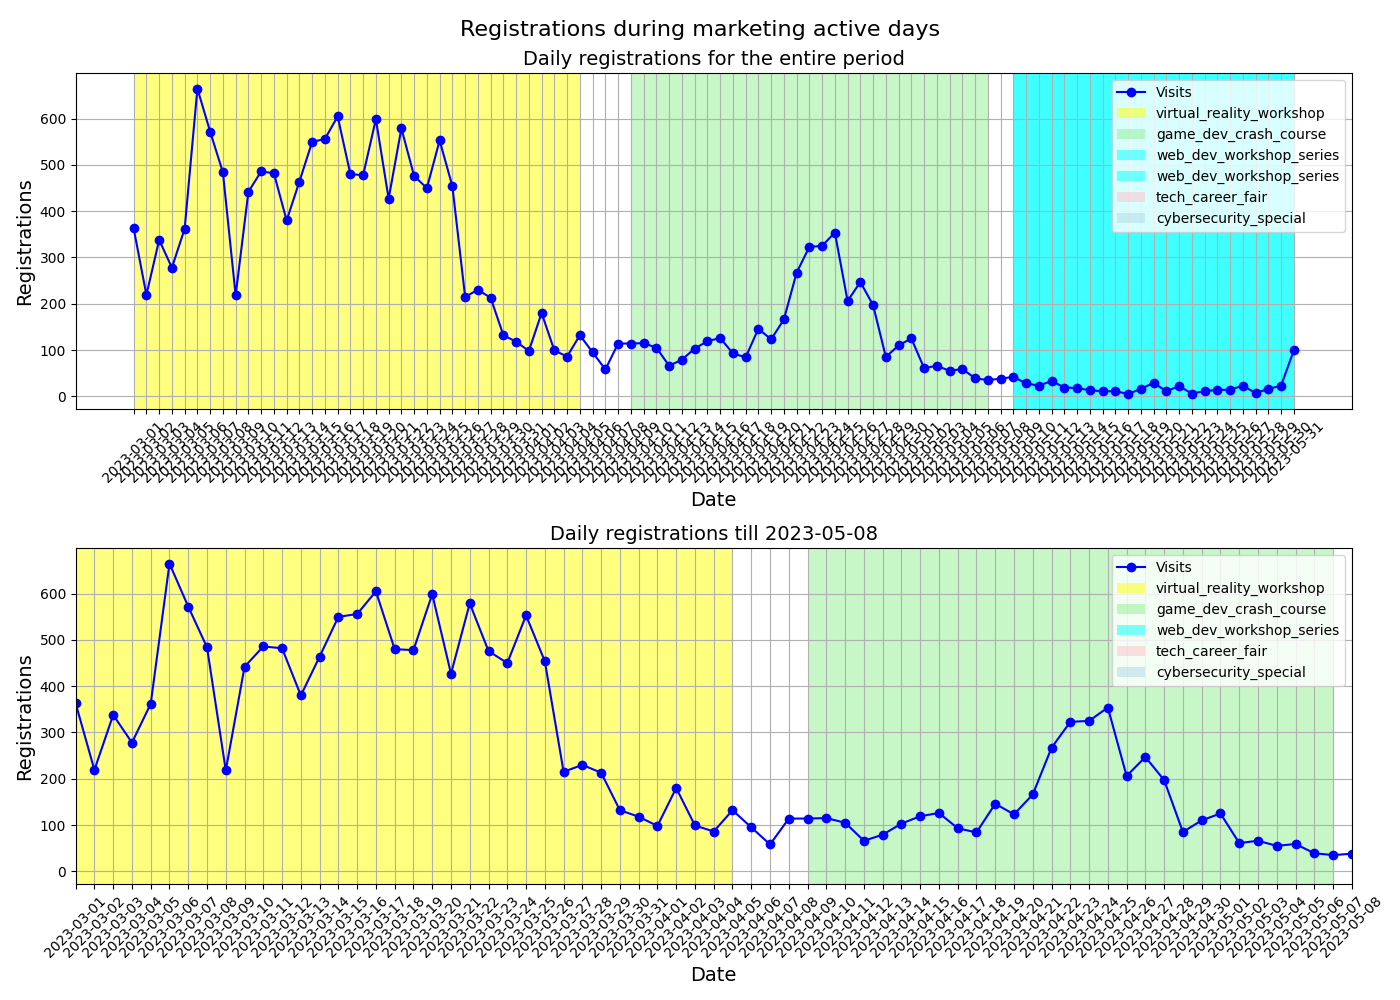
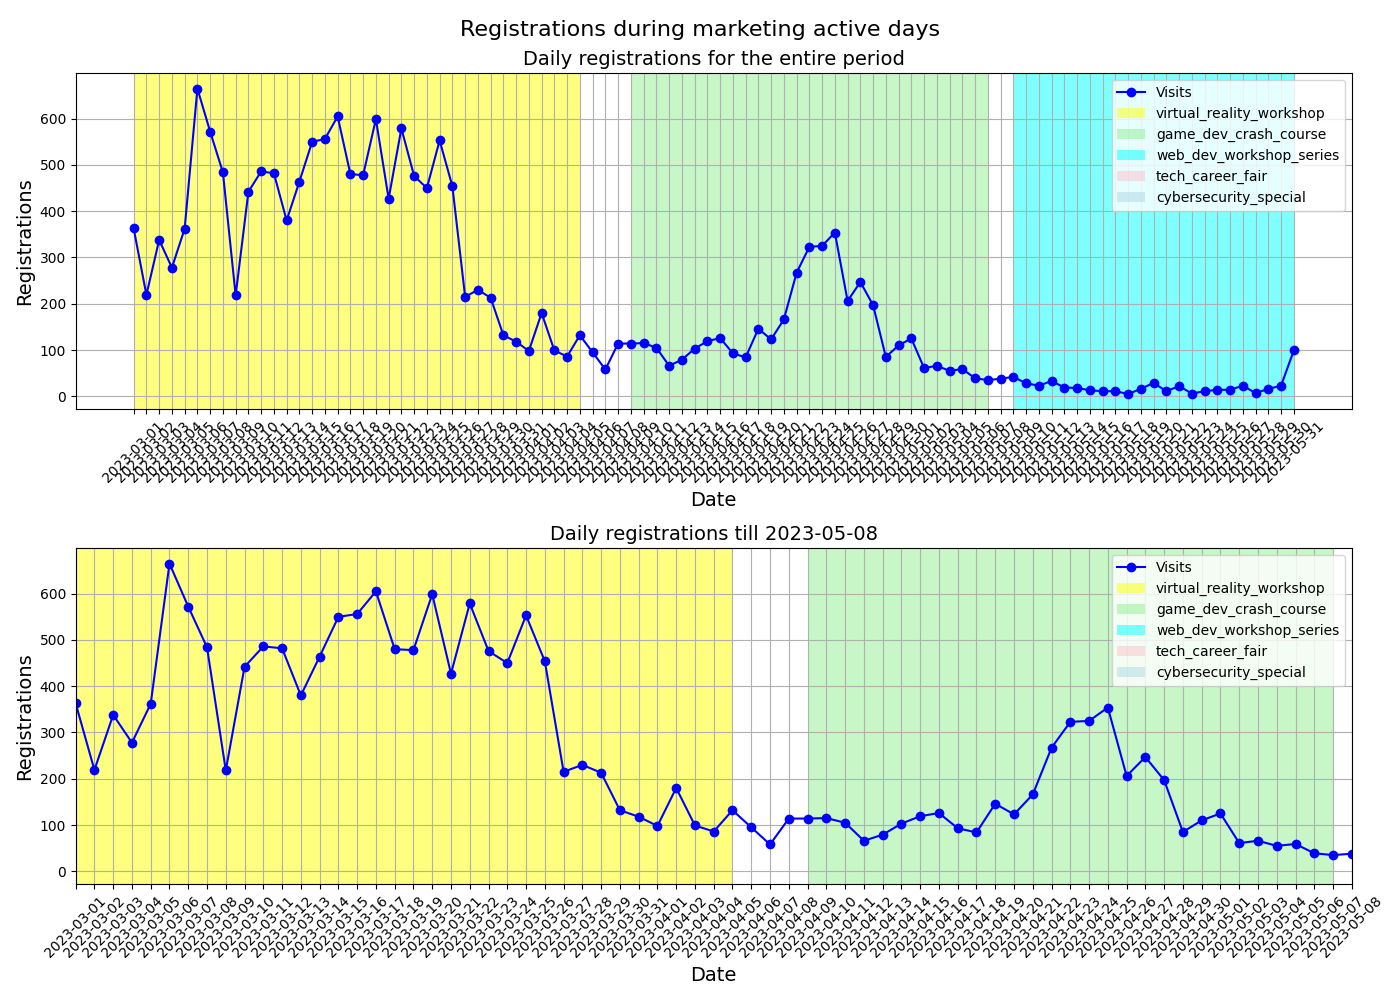
edit typos

Changed region(s): [[0.7064, 0.062, 0.9521, 0.434]]

diff --git a/hexlet-code/main.py b/hexlet-code/main.py
@@ -503,7 +503,6 @@ def visualizated_registrations_with_active_marketing(df):
     ax[0].axvspan(conv_ads_campaign4['date_group'].min(), conv_ads_campaign4['date_group'].max(), facecolor='yellow', alpha=0.5, label='virtual_reality_workshop')
     ax[0].axvspan(conv_ads_campaign2['date_group'].min(), conv_ads_campaign2['date_group'].max(), facecolor='lightgreen', alpha=0.5, label='game_dev_crash_course')
     ax[0].axvspan(conv_ads_campaign5['date_group'].min(), conv_ads_campaign5['date_group'].max(), facecolor='cyan', alpha=0.5, label='web_dev_workshop_series')
-    ax[0].axvspan(conv_ads_campaign5['date_group'].min(), conv_ads_campaign5['date_group'].max(), facecolor='cyan', alpha=0.5, label='web_dev_workshop_series')
     ax[0].axvspan(conv_ads_campaign3['date_group'].min(), conv_ads_campaign3['date_group'].max(), facecolor='pink', alpha=0.5, label='tech_career_fair')
     ax[0].axvspan(conv_ads_campaign1['date_group'].min(), conv_ads_campaign1['date_group'].max(), facecolor='lightblue', alpha=0.5, label='cybersecurity_special')
     
